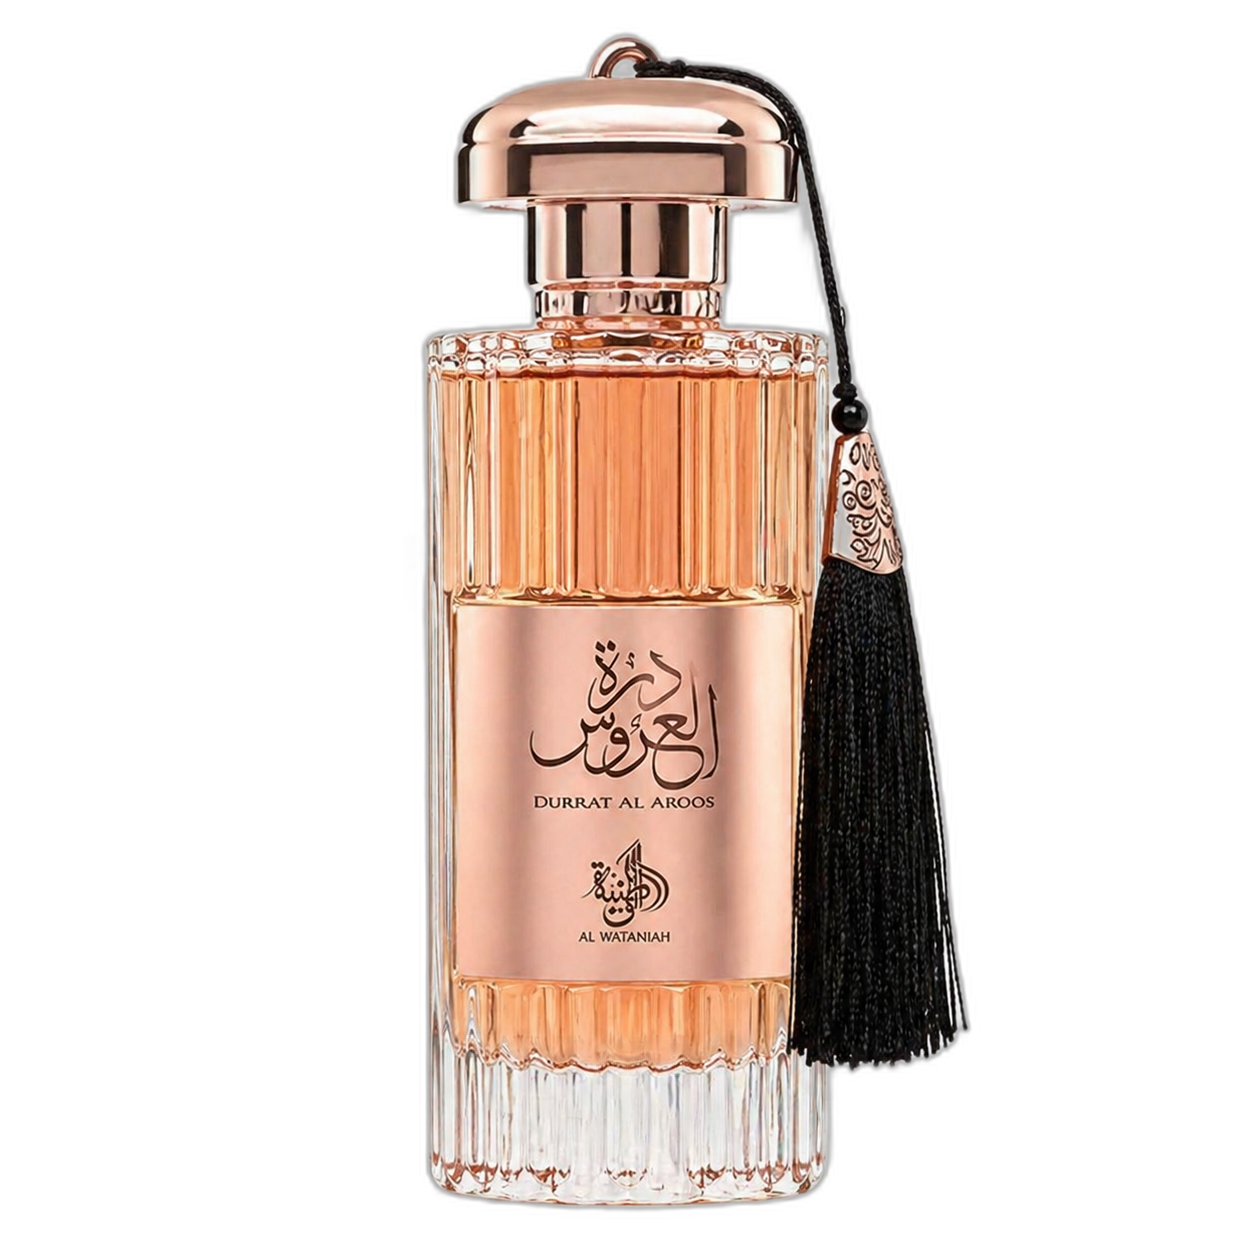
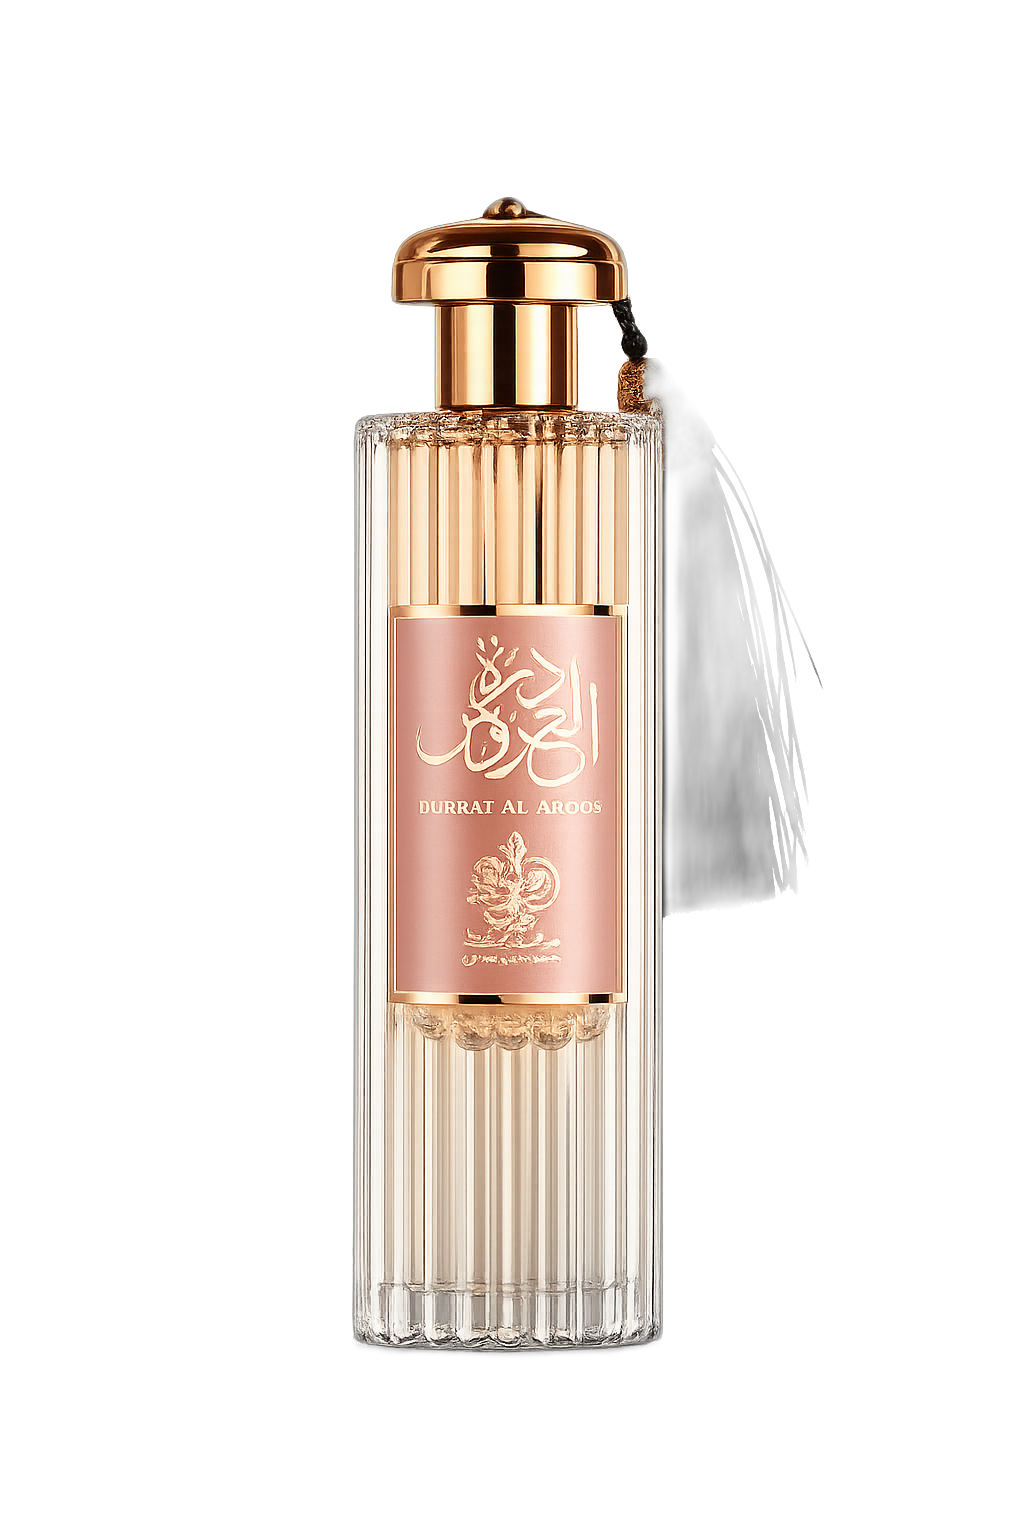
feat: added 4 new products (Armaf Iconic, Armaf Intense Man, Armaf Intense Man LE, Tharwah Gold), updated photos for Durrat Al Aroos and Sabah Al Ward, added Armaf filter

Changed region(s): [[0.3125, 0.0311, 0.7812, 0.9641]]

diff --git a/data.js b/data.js
@@ -1672,5 +1672,217 @@ const windowProducts = [
                 }
             ]
         }
+    },
+    {
+        "id": "armaf_iconic",
+        "name": "Club de Nuit Iconic",
+        "brand": "Armaf",
+        "category": "Amadeirado",
+        "gender": "Masculino",
+        "coverImage": "./Assets/ArmafIconic_nobg.png",
+        "modalImage": "./Assets/ArmafIconic_nobg.png",
+        "glowColor": "rgba(0,51,153,0.3)",
+        "description": "Uma lufada de frescor cítrico e amadeirado. Uma fragrância icônica para o homem moderno e audacioso.",
+        "notes": {
+            "top": [
+                {
+                    "name": "Toranja",
+                    "value": 88
+                },
+                {
+                    "name": "Menta",
+                    "value": 85
+                },
+                {
+                    "name": "Pimenta Rosa",
+                    "value": 82
+                }
+            ],
+            "heart": [
+                {
+                    "name": "Gengibre",
+                    "value": 90
+                },
+                {
+                    "name": "Melão",
+                    "value": 84
+                },
+                {
+                    "name": "Jasmim",
+                    "value": 80
+                }
+            ],
+            "base": [
+                {
+                    "name": "Incenso",
+                    "value": 85
+                },
+                {
+                    "name": "Sândalo",
+                    "value": 88
+                },
+                {
+                    "name": "Patchouli",
+                    "value": 86
+                }
+            ]
+        }
+    },
+    {
+        "id": "armaf_intense_man",
+        "name": "Club de Nuit Intense Man",
+        "brand": "Armaf",
+        "category": "Amadeirado",
+        "gender": "Masculino",
+        "coverImage": "./Assets/ArmafIntenseMan_nobg.png",
+        "modalImage": "./Assets/ArmafIntenseMan_nobg.png",
+        "glowColor": "rgba(30,30,30,0.3)",
+        "description": "O clássico atemporal. Uma abertura frutada marcante que evolui para um coração defumado e amadeirado, exalando confiança e mistério.",
+        "notes": {
+            "top": [
+                {
+                    "name": "Limão",
+                    "value": 90
+                },
+                {
+                    "name": "Abacaxi",
+                    "value": 95
+                },
+                {
+                    "name": "Groselha Preta",
+                    "value": 85
+                }
+            ],
+            "heart": [
+                {
+                    "name": "Bétula",
+                    "value": 95
+                },
+                {
+                    "name": "Jasmim",
+                    "value": 80
+                },
+                {
+                    "name": "Rosa",
+                    "value": 78
+                }
+            ],
+            "base": [
+                {
+                    "name": "Almíscar",
+                    "value": 88
+                },
+                {
+                    "name": "Âmbar Cinzento",
+                    "value": 90
+                },
+                {
+                    "name": "Patchouli",
+                    "value": 86
+                }
+            ]
+        }
+    },
+    {
+        "id": "armaf_intense_man_le",
+        "name": "Club de Nuit Intense Man L.E.",
+        "brand": "Armaf",
+        "category": "Amadeirado",
+        "gender": "Masculino",
+        "coverImage": "./Assets/ArmafIntenseManLE_nobg.png",
+        "modalImage": "./Assets/ArmafIntenseManLE_nobg.png",
+        "glowColor": "rgba(200,0,0,0.2)",
+        "description": "A versão Parfum Limited Edition. Uma concentração mais rica, refinada e suave do lendário aroma, perfeita para ocasiões exclusivas.",
+        "notes": {
+            "top": [
+                {
+                    "name": "Abacaxi",
+                    "value": 92
+                },
+                {
+                    "name": "Limão",
+                    "value": 88
+                },
+                {
+                    "name": "Pimenta Rosa",
+                    "value": 84
+                }
+            ],
+            "heart": [
+                {
+                    "name": "Rosa",
+                    "value": 82
+                },
+                {
+                    "name": "Lírio-do-vale",
+                    "value": 80
+                },
+                {
+                    "name": "Jasmim",
+                    "value": 78
+                }
+            ],
+            "base": [
+                {
+                    "name": "Ambroxan",
+                    "value": 95
+                },
+                {
+                    "name": "Couro",
+                    "value": 88
+                },
+                {
+                    "name": "Almíscar Branco",
+                    "value": 90
+                }
+            ]
+        }
+    },
+    {
+        "id": "tharwah_gold",
+        "name": "Tharwah Gold",
+        "brand": "Lattafa",
+        "category": "Floral",
+        "gender": "Feminino",
+        "coverImage": "./Assets/TharwahGold_nobg.png",
+        "modalImage": "./Assets/TharwahGold_nobg.png",
+        "glowColor": "rgba(255,215,0,0.2)",
+        "description": "A riqueza dourada encapsulada. Uma fragrância floral doce e envolvente que irradia sofisticação e empoderamento feminino.",
+        "notes": {
+            "top": [
+                {
+                    "name": "Lavanda",
+                    "value": 90
+                },
+                {
+                    "name": "Bergamota",
+                    "value": 85
+                }
+            ],
+            "heart": [
+                {
+                    "name": "Flor de Laranjeira",
+                    "value": 92
+                },
+                {
+                    "name": "Jasmim Egípcio",
+                    "value": 88
+                }
+            ],
+            "base": [
+                {
+                    "name": "Baunilha",
+                    "value": 95
+                },
+                {
+                    "name": "Âmbar",
+                    "value": 86
+                },
+                {
+                    "name": "Vetiver",
+                    "value": 80
+                }
+            ]
+        }
     }
 ];

diff --git a/index.html b/index.html
@@ -306,6 +306,7 @@
             <button class="filter-btn" data-filter="brand-Fragrance World">Fragrance World</button>
             <button class="filter-btn" data-filter="brand-Orientica">Orientica</button>
             <button class="filter-btn" data-filter="brand-Ard Al Zaafaran">Ard Al Zaafaran</button>
+            <button class="filter-btn" data-filter="brand-Armaf">Armaf</button>
             <button class="filter-btn" data-filter="cat-Amadeirado">Amadeirados</button>
             <button class="filter-btn" data-filter="cat-Doce">Doces</button>
             <button class="filter-btn" data-filter="cat-Floral">Florais</button>
@@ -555,8 +556,8 @@
     </footer>
 
     <!-- Scripts -->
-    <script src="data.js?v=20"></script>
-    <script src="script.js?v=20"></script>
+    <script src="data.js?v=21"></script>
+    <script src="script.js?v=21"></script>
 </body>
 </html>
 
